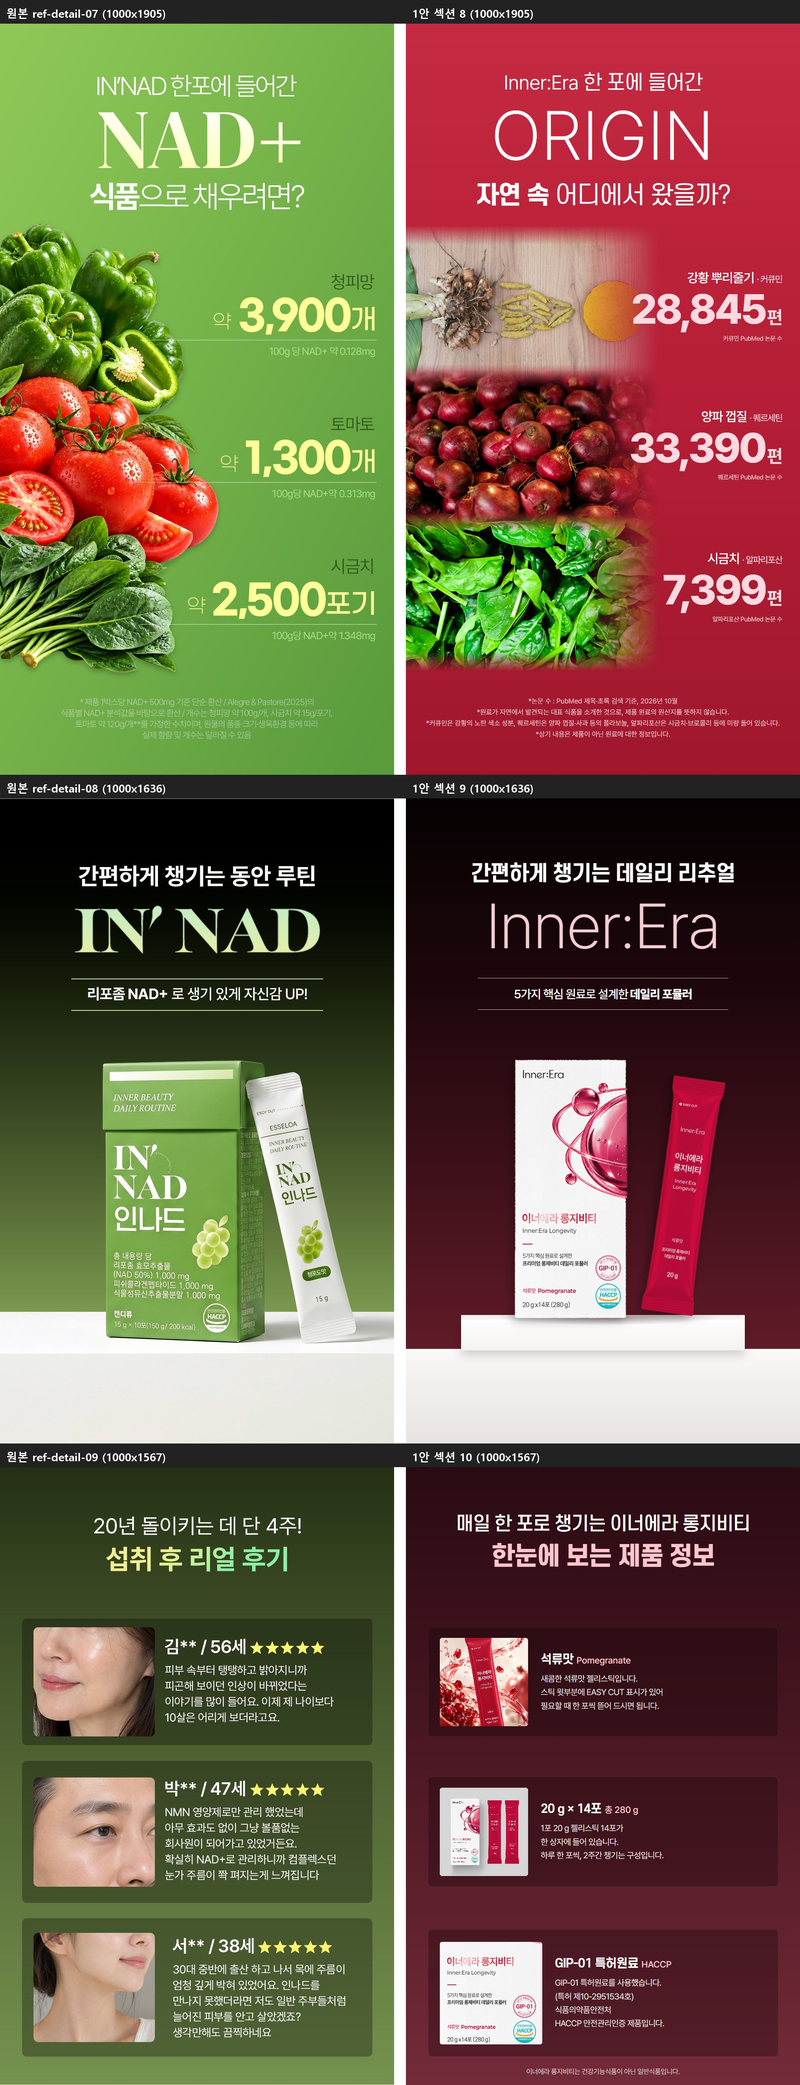
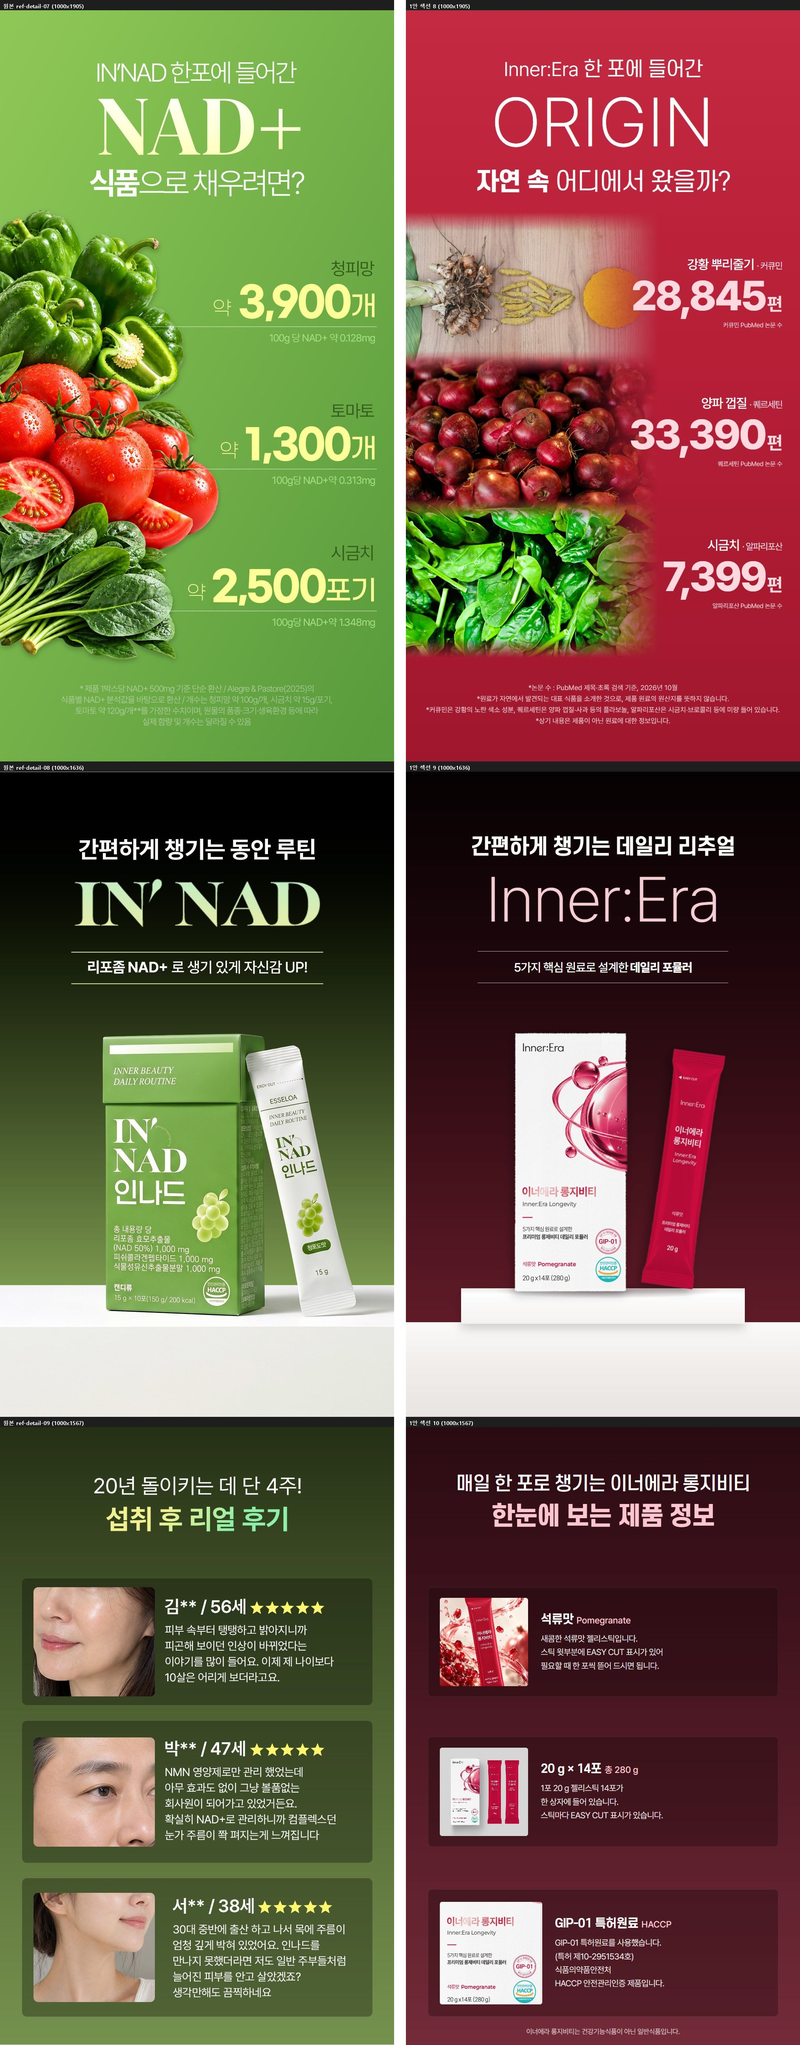
내용 검수: 연출 사진 상자 글씨 오타 바로잡기, 고객 자료에 없는 섭취 기간 표현 삭제, 제품 정보 '구분' 표기, 상세 1안 비교 이미지 갱신, 검수표 추가

diff --git a/audit/index.html b/audit/index.html
@@ -1,0 +1,120 @@
+<!doctype html>
+<html lang="ko">
+<head>
+<meta charset="utf-8">
+<meta name="robots" content="noindex,nofollow">
+<meta name="viewport" content="width=device-width,initial-scale=1">
+<title>이너에라 시안 — 내용 검수표</title>
+<link rel="icon" href="../assets/product/stick_cut.png">
+<link rel="stylesheet" href="../assets/fonts.css">
+<style>
+*{box-sizing:border-box;margin:0;padding:0}
+body{font-family:var(--font-body);color:#1d1a1b;background:#fff;word-break:keep-all;-webkit-font-smoothing:antialiased}
+.wrap{max-width:1040px;margin:0 auto;padding:0 20px}
+header{padding:48px 0 28px;border-bottom:1px solid #eee}
+header p.k{font-size:13px;font-weight:700;color:#c8102e;margin-bottom:10px}
+header h1{font-family:var(--font-point);font-size:34px;font-weight:700;letter-spacing:-.02em;line-height:1.3}
+header .lead{margin-top:14px;font-size:16px;line-height:1.7;color:#4d4749}
+.sum{display:grid;grid-template-columns:repeat(4,minmax(0,1fr));gap:12px;margin-top:24px}
+.sum div{border:1px solid #eee;border-radius:12px;padding:16px}
+.sum b{display:block;font-size:28px;font-weight:700;letter-spacing:-.02em}
+.sum span{font-size:13px;color:#6f696b}
+.sum .ok b{color:#1d1a1b}.sum .fix b{color:#c8102e}
+section{padding:40px 0;border-bottom:1px solid #eee}
+h2{font-family:var(--font-point);font-size:22px;font-weight:700;letter-spacing:-.02em;margin-bottom:6px}
+h2+p{font-size:14px;color:#6f696b;margin-bottom:18px;line-height:1.6}
+.tbl{width:100%;overflow-x:auto}
+table{width:100%;border-collapse:collapse;font-size:14px;min-width:640px}
+th,td{border-bottom:1px solid #eee;padding:11px 10px;text-align:left;vertical-align:top;line-height:1.55}
+thead th{font-size:12px;color:#8a8486;font-weight:600;border-bottom:1px solid #d9d2d1}
+td.r{white-space:nowrap;font-weight:700}
+.y{color:#1d1a1b}.n{color:#c8102e}.q{color:#b26b00}
+.fixes{list-style:none;display:grid;gap:14px}
+.fixes li{display:grid;grid-template-columns:200px 1fr;gap:16px;align-items:start;border:1px solid #eee;border-radius:12px;padding:16px}
+.fixes img{width:100%;border-radius:8px;display:block}
+.fixes b{display:block;font-size:15px;margin-bottom:6px}
+.fixes p{font-size:14px;color:#4d4749;line-height:1.6}
+.ask{list-style:none;display:grid;grid-template-columns:repeat(2,minmax(0,1fr));gap:0 32px}
+.ask li{padding:14px 0;border-bottom:1px solid #eee;font-size:14px;line-height:1.6;color:#4d4749}
+.ask b{display:block;color:#1d1a1b;font-size:15px;margin-bottom:4px}
+footer{padding:28px 0 48px;font-size:12px;color:#8a8486;line-height:1.7}
+@media (max-width:760px){.sum{grid-template-columns:repeat(2,minmax(0,1fr))}.fixes li{grid-template-columns:1fr}.ask{grid-template-columns:1fr}header h1{font-size:27px}}
+</style>
+</head>
+<body>
+<header><div class="wrap">
+ <p class="k">내부 확인용 · 2026.10.28</p>
+ <h1>내용 검수표 — 고객이 준 자료와 시안 글자 대조</h1>
+ <p class="lead">기준은 고객이 보낸 요청 글과 패키지 사진 4장입니다. 시안 7개, 모음 페이지, 레퍼런스 보드를 PC와 휴대폰 화면으로 열어 글자를 모두 뽑았습니다. 숨은 메뉴, 탭, 사진 설명까지 포함해 1,719줄을 한 줄씩 대조했습니다.</p>
+ <div class="sum">
+  <div class="ok"><b>0건</b><span>고객 자료와 모순되는 숫자·표기</span></div>
+  <div class="ok"><b>0건</b><span>원료와 수치가 엇갈린 곳 (시안 7개 전부 대조)</span></div>
+  <div class="fix"><b>4가지</b><span>이번 검수에서 찾아 고친 것</span></div>
+  <div><b>6가지</b><span>고객 확인이 필요한 것</span></div>
+ </div>
+</div></header>
+
+<section><div class="wrap">
+ <h2>고객이 준 사실 — 시안 표기 대조</h2>
+ <p>'횟수'는 9개 화면 전체에서 그 표기가 나온 횟수입니다. 같은 항목에 다른 숫자가 쓰인 곳이 있는지 함께 봤습니다.</p>
+ <div class="tbl"><table>
+  <thead><tr><th>항목</th><th>고객 자료</th><th>시안 표기</th><th>횟수</th><th>결과</th></tr></thead>
+  <tbody>
+   <tr><td>브랜드·제품명</td><td>Inner:Era / 이너에라 롱지비티</td><td>같음 ('이너에'·'롱제비티' 같은 다른 이름 0)</td><td>전 화면</td><td class="r y">일치</td></tr>
+   <tr><td>패키지 문구</td><td>5가지 핵심 원료로 설계한 프리미엄 롱제비티 데일리 포뮬러</td><td>같음</td><td>전 화면</td><td class="r y">일치</td></tr>
+   <tr><td>맛</td><td>석류맛 Pomegranate</td><td>석류맛</td><td>45</td><td class="r y">일치</td></tr>
+   <tr><td>1포 용량</td><td>20 g</td><td>20 g (다른 g 값 0)</td><td>47</td><td class="r y">일치</td></tr>
+   <tr><td>한 상자</td><td>14포 · 280 g</td><td>14포 · 280 g (2·4박스는 28포·56포)</td><td>44 · 16</td><td class="r y">일치</td></tr>
+   <tr><td>특허원료</td><td>GIP-01 · 제10-2951534호</td><td>같음 (다른 번호 0)</td><td>29 · 13</td><td class="r y">일치</td></tr>
+   <tr><td>인증</td><td>HACCP 안전관리인증 (식품의약품안전처)</td><td>같음</td><td>21</td><td class="r y">일치</td></tr>
+   <tr><td>식품 구분</td><td>건강기능식품이 아닌 일반식품</td><td>시안마다 맨 아래 "건강기능식품이 아닌 일반식품입니다"</td><td>13</td><td class="r y">일치</td></tr>
+   <tr><td>핵심 원료</td><td>ALA · 글루타치온 · 커큐민 · 퀘르세틴 · NMN</td><td>같음 (케르세틴·커쿠민 같은 표기 흔들림 0)</td><td>전 화면</td><td class="r y">일치</td></tr>
+   <tr><td>효능 표현</td><td>쓰지 말 것</td><td>효능·기능 문구 0 (금지어 26개 검사)</td><td>0</td><td class="r y">지킴</td></tr>
+   <tr><td>칼로리·당류·함량(mg)</td><td>자료에 없음</td><td>시안에 쓰지 않음</td><td>0</td><td class="r y">지킴</td></tr>
+  </tbody>
+ </table></div>
+</div></section>
+
+<section><div class="wrap">
+ <h2>우리가 덧붙인 원료 사실 — 출처와 짝 맞춤</h2>
+ <p>원료 설명은 효능 대신 공개 자료의 사실만 썼습니다. 시안 7개의 각 숫자가 맞는 원료 옆에 있는지 화면 구조로 하나씩 확인했고, 엇갈린 곳은 0건입니다.</p>
+ <div class="tbl"><table>
+  <thead><tr><th>원료</th><th>분자식</th><th>분자량</th><th>PubMed 논문 수</th><th>자연 속 유래(시안 표기)</th></tr></thead>
+  <tbody>
+   <tr><td>알파리포산</td><td>C8H14O2S2</td><td>206.3</td><td>7,399편</td><td>시금치·브로콜리 등 미량</td></tr>
+   <tr><td>글루타치온</td><td>C10H17N3O6S</td><td>307.33</td><td>180,343편</td><td>효모 등</td></tr>
+   <tr><td>커큐민</td><td>C21H20O6</td><td>368.4</td><td>28,845편</td><td>강황 뿌리줄기</td></tr>
+   <tr><td>퀘르세틴</td><td>C15H10O7</td><td>302.23</td><td>33,390편</td><td>양파 껍질·사과·케이퍼</td></tr>
+   <tr><td>NMN</td><td>C11H15N2O8P</td><td>334.22</td><td>1,548편</td><td>브로콜리·에다마메·아보카도 등 미량</td></tr>
+  </tbody>
+ </table></div>
+ <p style="margin-top:12px">출처: 분자식·분자량·3D 구조 = 미국 국립의학도서관 PubChem, 논문 수 = PubMed 제목·초록 검색(2026년 10월 28일 조회). 원료 설명마다 "상기 내용은 제품이 아닌 원료에 대한 정보입니다"를 달았습니다.</p>
+</div></section>
+
+<section><div class="wrap">
+ <h2>이번 검수에서 찾아 고친 것</h2>
+ <p>모두 실서버 시안에 반영했습니다.</p>
+ <ul class="fixes">
+  <li><img src="../assets/product/box_stick_splash.jpg" alt="바로잡은 연출 사진"><div><b>① 고객 연출 사진의 상자 글씨 오타</b><p>보내주신 4번째 연출 사진(상자+스틱+석류)의 상자에 "프리미엄 <u>통</u>제비티 데일리 포뮬러"라고 잘못 찍혀 있었습니다. 그 아래 "제1P-01 특허원료 사용" 줄과 GIP-01·HACCP 마크 글씨도 깨져 있었습니다. 정식 패키지 사진의 글씨와 마크로 바로잡아 교체했습니다. 이 사진은 상세 1·2안, 쇼핑몰 1·2·3안, 레퍼런스 보드에 쓰였습니다.</p></div></li>
+  <li><div style="font-size:30px;font-weight:700;color:#c8102e;padding:8px 0">2주 → 14포</div><div><b>② 고객이 주지 않은 섭취 기간 표현 삭제</b><p>"하루 한 포씩 2주간", "하루 한 포 기준 2주", "14일의 데일리 리추얼", "Day 01~14", "하루 한 포, 2주·4주·8주"는 우리가 계산해 넣은 표현이라, 권장 섭취량이 다르면 모순이 됩니다. 패키지에 적힌 사실(14포·280 g·EASY CUT)로 바꿨습니다. 상세 1·2안, 쇼핑몰 1안, 레퍼런스 보드 2곳을 고쳤습니다.</p></div></li>
+  <li><div style="font-size:22px;font-weight:700;color:#c8102e;padding:8px 0">식품 유형 → 구분</div><div><b>③ 표시사항 용어 바로잡기</b><p>상세 2·3안 제품 정보 표의 "식품 유형: 일반식품"을 "구분: 일반식품(건강기능식품 아님)"으로 바꿨습니다. '식품유형'은 포장 표시사항 용어(젤리·기타가공품 등)라 실제 표기와 다를 수 있기 때문입니다.</p></div></li>
+  <li><img src="../img/detail-1.jpg" alt="상세 1안"><div><b>④ 비교 이미지 갱신</b><p>상세 1안 '원본과 나란히' 이미지가 수정 전 화면이라, 지금 화면으로 다시 찍었습니다. 마켓용 긴 이미지(상세 1·2·3안)도 새로 뽑았습니다.</p></div></li>
+ </ul>
+</div></section>
+
+<section><div class="wrap">
+ <h2>고객 확인이 필요한 것</h2>
+ <p>고객 자료에 없거나, 고객 자료끼리 다른 부분입니다. 받는 대로 시안에 그대로 넣겠습니다.</p>
+ <ul class="ask">
+  <li><b>권장 섭취량</b>시안의 "하루 한 포"는 패키지의 '데일리 포뮬러'에 맞춘 표현입니다. 실제 섭취 방법을 알려주시면 맞춰 고칩니다.</li>
+  <li><b>칼로리</b>패키지 정면 사진에는 "(280 g x 000 kcal)"로 칼로리 칸이 비어 있습니다. 확정 값이 필요합니다.</li>
+  <li><b>4번째 연출 사진 원본</b>상자 글씨가 '통제비티'로 잘못 찍힌 사진입니다. 광고·상세에 이미 쓰고 계시면 원본 수정을 권해 드립니다.</li>
+  <li><b>'석류맛' 띄어쓰기</b>정면 사진만 "석류 맛"이고, 나머지 사진은 "석류맛"입니다. 시안은 "석류맛"으로 통일했습니다.</li>
+  <li><b>가격·구성</b>쇼핑몰 2·3·4안의 49,000원·98,000원·196,000원(1·2·4박스)은 예시 값입니다.</li>
+  <li><b>GIP-01·원료 함량</b>GIP-01이 어떤 원료인지, 원료별 함량(mg)을 알려주시면 원료 표에 넣겠습니다.</li>
+ </ul>
+</div></section>
+
+<footer><div class="wrap">검수 범위: 모음 페이지 · 상세 1·2·3안 · 쇼핑몰 1·2·3·4안 · 레퍼런스 보드를 PC(1440)와 휴대폰(412) 화면으로 확인했습니다. 레퍼런스 화면의 저작권은 각 운영사에 있습니다.</div></footer>
+</body>
+</html>

diff --git a/refs/index.html b/refs/index.html
@@ -44,7 +44,7 @@
 
   <section class="intro" id="wow">
     <h2 class="sec">“와” 소리가 나올 세 가지 장치</h2>
-    <ol class="devices"><li><span class="dn">1</span><div><b>첫 화면 = 붉은 구슬과 궤도</b><span>패키지의 붉은 구슬과 궤도 고리를 첫 화면 한가운데에. 배경은 흰색과 여백으로 절제해서, 타임라인의 붉은 캡슐처럼 한 장면으로 기억되게.</span></div></li><li><span class="dn">2</span><div><b>원료 다섯 장 — 출처·분자식·논문 수</b><span>원료마다 한 장: 어디서 왔는지(강황 뿌리줄기, 양파 껍질, 효모…), 분자 구조, PubMed 논문 수. 효능 대신 사실로 믿음을 쌓는 방식.</span></div></li><li><span class="dn">3</span><div><b>따로 챙기던 5통 대신, 하루 한 포</b><span>다섯 개의 통이 젤리스틱 한 포로 모이는 장면 하나, 그리고 14포를 하루 한 포씩 넘기는 &#x27;데일리 리추얼&#x27; 화면.</span></div></li></ol>
+    <ol class="devices"><li><span class="dn">1</span><div><b>첫 화면 = 붉은 구슬과 궤도</b><span>패키지의 붉은 구슬과 궤도 고리를 첫 화면 한가운데에. 배경은 흰색과 여백으로 절제해서, 타임라인의 붉은 캡슐처럼 한 장면으로 기억되게.</span></div></li><li><span class="dn">2</span><div><b>원료 다섯 장 — 출처·분자식·논문 수</b><span>원료마다 한 장: 어디서 왔는지(강황 뿌리줄기, 양파 껍질, 효모…), 분자 구조, PubMed 논문 수. 효능 대신 사실로 믿음을 쌓는 방식.</span></div></li><li><span class="dn">3</span><div><b>따로 챙기던 5통 대신, 하루 한 포</b><span>다섯 개의 통이 젤리스틱 한 포로 모이는 장면 하나, 그리고 14포를 한 포씩 넘기는 &#x27;데일리 리추얼&#x27; 화면.</span></div></li></ol>
   </section>
 
   <section class="group" id="g-hero">
@@ -406,7 +406,7 @@
         <h3>Bioniq</h3>
         <p class="meta">영국 · 맞춤 영양 구독</p>
         <p class="wow"><b>와 포인트</b>알갱이가 가득한 파란 통 하나와 질문 한 줄(&#x27;지금 먹는 영양제가 나에게 맞나요?&#x27;)로 시작해, 앱 화면으로 내 루틴을 관리하는 모습을 보여 줍니다.</p>
-        <p class="map"><b>이너에라라면</b>14일 달력에 하루 한 포씩 체크되는 폰 화면 — &#x27;미래의 나를 위한 데일리 리추얼&#x27;을 그림 하나로.</p>
+        <p class="map"><b>이너에라라면</b>14포를 한 포씩 체크해 나가는 폰 화면 — &#x27;미래의 나를 위한 데일리 리추얼&#x27;을 그림 하나로.</p>
         <div class="links"><a class="open" href="https://www.bioniq.com/" target="_blank" rel="noopener">사이트 열기 ↗</a></div>
       </div>
     </article>

diff --git a/drafts/shop-1/index.html b/drafts/shop-1/index.html
@@ -94,17 +94,17 @@
     <label class="m-search rv"><input type="search" placeholder="원료 이름으로 찾아보세요 (예: 커큐민)" aria-label="원료 검색"><svg class="ic" aria-hidden="true"><use href="#i-search"/></svg></label>
     <div class="cards">
       <a class="card c1 rv" href="../detail-1/">
-        <span class="c-sm">하루 한 포, 2주</span><b class="c-nm">1박스 · <span data-count="14">14</span>포</b>
+        <span class="c-sm">석류맛 20 g × 14포</span><b class="c-nm">1박스 · <span data-count="14">14</span>포</b>
         <span class="pk pk-a" aria-hidden="true"><img class="bx b1" src="../../assets/product/box_cut.png" alt=""><img class="st s1" src="../../assets/product/stick_cut.png" alt=""></span>
         <span class="pk pk-b" aria-hidden="true"><img class="st t1" src="../../assets/product/stick_cut.png" alt=""><img class="st t2" src="../../assets/product/stick_cut.png" alt=""></span>
       </a>
       <a class="card c2 rv" href="../detail-1/">
-        <span class="c-sm">하루 한 포, 4주</span><b class="c-nm">2박스 · <span data-count="28">28</span>포</b>
+        <span class="c-sm">석류맛 20 g × 28포</span><b class="c-nm">2박스 · <span data-count="28">28</span>포</b>
         <span class="pk pk-a" aria-hidden="true"><img class="bx b2" src="../../assets/product/box_cut.png" alt=""><img class="bx b1" src="../../assets/product/box_cut.png" alt=""><img class="st s1" src="../../assets/product/stick_cut.png" alt=""></span>
         <span class="pk pk-b" aria-hidden="true"><img class="st t1" src="../../assets/product/stick_cut.png" alt=""><img class="st t2" src="../../assets/product/stick_cut.png" alt=""><img class="st t3" src="../../assets/product/stick_cut.png" alt=""></span>
       </a>
       <a class="card c3 rv" href="../detail-1/">
-        <span class="c-sm">하루 한 포, 8주</span><b class="c-nm">4박스 · <span data-count="56">56</span>포</b>
+        <span class="c-sm">석류맛 20 g × 56포</span><b class="c-nm">4박스 · <span data-count="56">56</span>포</b>
         <span class="pk pk-a" aria-hidden="true"><img class="bx b4" src="../../assets/product/box_cut.png" alt=""><img class="bx b3" src="../../assets/product/box_cut.png" alt=""><img class="bx b2" src="../../assets/product/box_cut.png" alt=""><img class="bx b1" src="../../assets/product/box_cut.png" alt=""></span>
         <span class="pk pk-b" aria-hidden="true"><img class="st t1" src="../../assets/product/stick_cut.png" alt=""><img class="st t2" src="../../assets/product/stick_cut.png" alt=""><img class="st t3" src="../../assets/product/stick_cut.png" alt=""><img class="st t4" src="../../assets/product/stick_cut.png" alt=""></span>
       </a>

diff --git a/drafts/detail-2/index.html b/drafts/detail-2/index.html
@@ -54,7 +54,7 @@
         <div class="sub">Inner:Era Longevity · 1상자 기준</div>
         <dl>
           <dt>제품명</dt><dd>이너에라 롱지비티</dd>
-          <dt>식품 유형</dt><dd>일반식품</dd>
+          <dt>구분</dt><dd>일반식품(건강기능식품 아님)</dd>
           <dt>맛</dt><dd>석류맛 Pomegranate</dd>
           <dt>내용량</dt><dd>20 g × 14포 (280 g)</dd>
           <dt>핵심 원료</dt><dd>5가지</dd>
@@ -153,18 +153,18 @@
     </div>
   </section>
 
-  <!-- 06 14일 리추얼 -->
+  <!-- 06 14포 리추얼 -->
   <section class="sec">
     <div class="rit-head">
-      <h2 class="h2">하루 한 포,<br>14일의 데일리 리추얼</h2>
-      <p class="note">한 상자 14포 · 하루 한 포 기준 2주</p>
+      <h2 class="h2">한 상자,<br>14포의 데일리 리추얼</h2>
+      <p class="note">20 g 젤리스틱 14포 · 280 g</p>
     </div>
     <div class="rit">
-      <figure class="f1"><img src="../../assets/product/stick_splash.jpg" alt="석류 과즙과 스틱"><figcaption>Day 01</figcaption></figure>
-      <figure class="f2"><img src="../../assets/product/box_sticks.jpg" alt="상자와 스틱"><figcaption>Day 04</figcaption></figure>
-      <figure class="f3"><img src="../../assets/photos/d/d2_pom_reflect.jpg" alt="석류와 석류알"><figcaption>Day 07</figcaption></figure>
-      <figure class="f4"><img src="../../assets/product/box_stick_splash.jpg" alt="상자와 스틱, 석류"><figcaption>Day 10</figcaption></figure>
-      <figure class="f5"><img src="../../assets/product/box_front.jpg" alt="상자 정면"><figcaption>Day 14</figcaption></figure>
+      <figure class="f1"><img src="../../assets/product/stick_splash.jpg" alt="석류 과즙과 스틱"><figcaption>01 / 14</figcaption></figure>
+      <figure class="f2"><img src="../../assets/product/box_sticks.jpg" alt="상자와 스틱"><figcaption>04 / 14</figcaption></figure>
+      <figure class="f3"><img src="../../assets/photos/d/d2_pom_reflect.jpg" alt="석류와 석류알"><figcaption>07 / 14</figcaption></figure>
+      <figure class="f4"><img src="../../assets/product/box_stick_splash.jpg" alt="상자와 스틱, 석류"><figcaption>10 / 14</figcaption></figure>
+      <figure class="f5"><img src="../../assets/product/box_sticks.jpg" alt="상자와 스틱"><figcaption>14 / 14</figcaption></figure>
     </div>
     <div class="rit-desc">
       <b>첫 포를 여는 날</b>

diff --git a/index.html b/index.html
@@ -173,7 +173,7 @@ footer{padding:40px 0 56px;border-top:1px solid #eee;font-size:13px;line-height:
 <section id="ask"><div class="wrap">
  <div class="sec-h"><h2>확정 전에 알려주시면 바로 반영합니다</h2><p>시안은 방향을 맞추는 단계라, 아래 정보는 비워 두거나 자리만 잡아 두었습니다.</p></div>
  <div class="ask">
-  <div><b>가격·구성·섭취량</b><span>쇼핑몰 2·3·4안의 49,000원 · 98,000원 · 196,000원(1·2·4박스)은 예시 값입니다. '하루 한 포'와 '2주·4주·8주'는 패키지의 '데일리 포뮬러'와 14포에 맞춘 표현이라, 권장 섭취량이 다르면 바로 고칩니다.</span></div>
+  <div><b>가격·구성·섭취량</b><span>쇼핑몰 2·3·4안의 49,000원 · 98,000원 · 196,000원(1·2·4박스)은 예시 값입니다. '하루 한 포'는 패키지의 '데일리 포뮬러'에 맞춘 표현이라 권장 섭취량이 다르면 바로 고칩니다. 섭취량에 따라 달라지는 '2주·4주' 같은 기간 표현은 시안에서 뺐습니다.</span></div>
   <div><b>원료별 함량·칼로리·원산지</b><span>받으시면 원료 표와 제품 정보 칸에 그대로 넣겠습니다.</span></div>
   <div><b>GIP-01 특허원료 설명</b><span>지금은 패키지 표기(특허 제10-2951534호)만 넣었습니다. 어떤 원료인지 알려주시면 한 장면으로 따로 만들겠습니다.</span></div>
   <div><b>모델·생활 사진</b><span>사람이 들어간 사진이 있으면 오니스트처럼 첫 화면에 쓰겠습니다. 지금은 보내주신 제품 사진과 무료 원료 사진만 썼습니다.</span></div>

diff --git a/drafts/detail-1/index.html b/drafts/detail-1/index.html
@@ -193,7 +193,7 @@
     <p class="abs t1 pt">매일 한 포로 챙기는 이너에라 롱지비티</p>
     <h2 class="abs t2 pt">한눈에 보는 제품 정보</h2>
     <div class="card k1"><img src="../../assets/product/stick_splash.jpg" alt="석류맛 스틱" style="object-position:50% 40%"><div><h3>석류맛<span>Pomegranate</span></h3><p>새콤한 석류맛 젤리스틱입니다.<br>스틱 윗부분에 EASY CUT 표시가 있어<br>필요할 때 한 포씩 뜯어 드시면 됩니다.</p></div></div>
-    <div class="card k2"><img src="../../assets/product/box_sticks.jpg" alt="상자와 스틱 2포" style="object-position:30% 50%"><div><h3>20 g × 14포<span>총 280 g</span></h3><p>1포 20 g 젤리스틱 14포가<br>한 상자에 들어 있습니다.<br>하루 한 포씩, 2주간 챙기는 구성입니다.</p></div></div>
+    <div class="card k2"><img src="../../assets/product/box_sticks.jpg" alt="상자와 스틱 2포" style="object-position:30% 50%"><div><h3>20 g × 14포<span>총 280 g</span></h3><p>1포 20 g 젤리스틱 14포가<br>한 상자에 들어 있습니다.<br>스틱마다 EASY CUT 표시가 있습니다.</p></div></div>
     <div class="card k3"><img src="../../assets/product/box_cut.png" alt="상자의 GIP-01·HACCP 표기"><div><h3>GIP-01 특허원료<span>HACCP</span></h3><p>GIP-01 특허원료를 사용했습니다.<br>(특허 제10-2951534호)<br>식품의약품안전처<br>HACCP 안전관리인증 제품입니다.</p></div></div>
     <p class="abs legal">이너에라 롱지비티는 건강기능식품이 아닌 일반식품입니다.</p>
   </section>

diff --git a/drafts/detail-3/index.html b/drafts/detail-3/index.html
@@ -36,7 +36,7 @@
       <div><dt>용량</dt><dd>20 g × 14포 (280 g)</dd></div>
       <div><dt>특허원료</dt><dd>GIP-01 <span class="nw">(특허 제10-2951534호)</span></dd></div>
       <div><dt>인증</dt><dd>HACCP 안전관리인증 (식품의약품안전처)</dd></div>
-      <div><dt>식품 유형</dt><dd>일반식품</dd></div>
+      <div><dt>구분</dt><dd>일반식품(건강기능식품 아님)</dd></div>
     </dl>
   </section>
 
